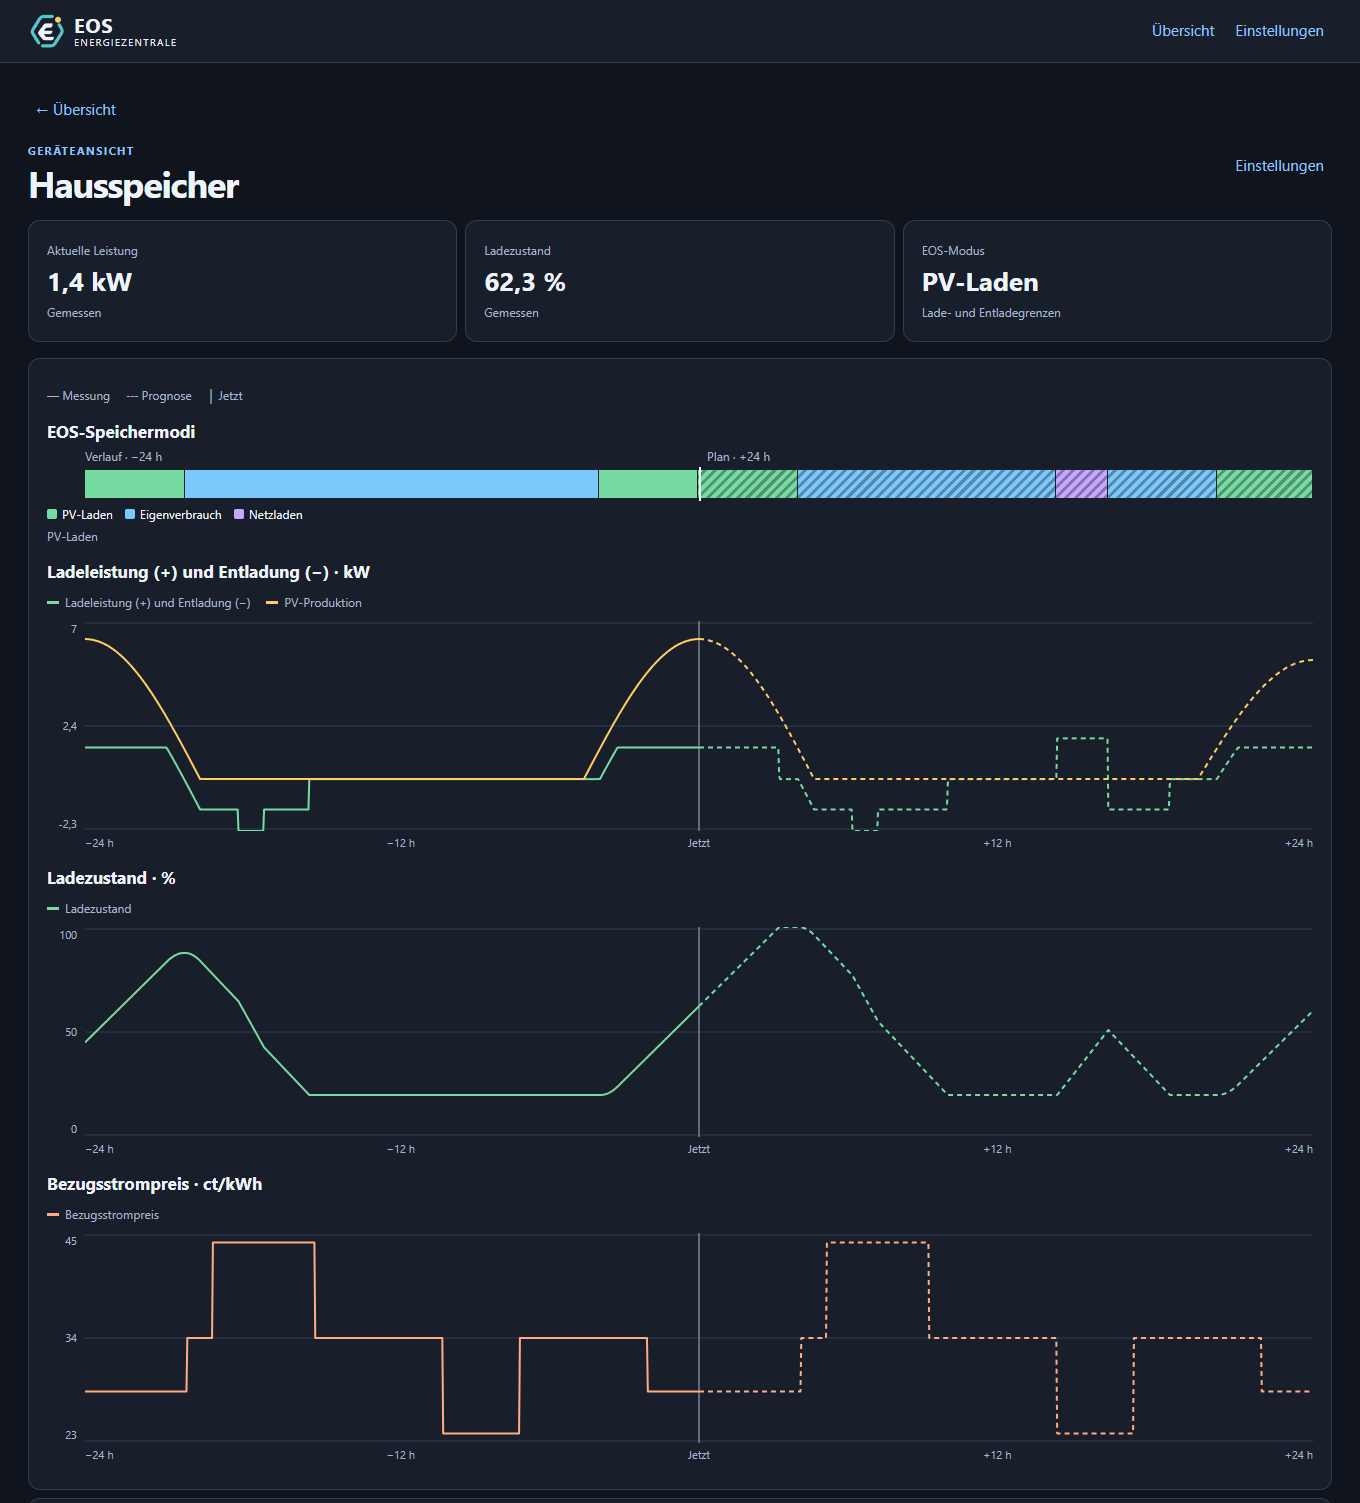
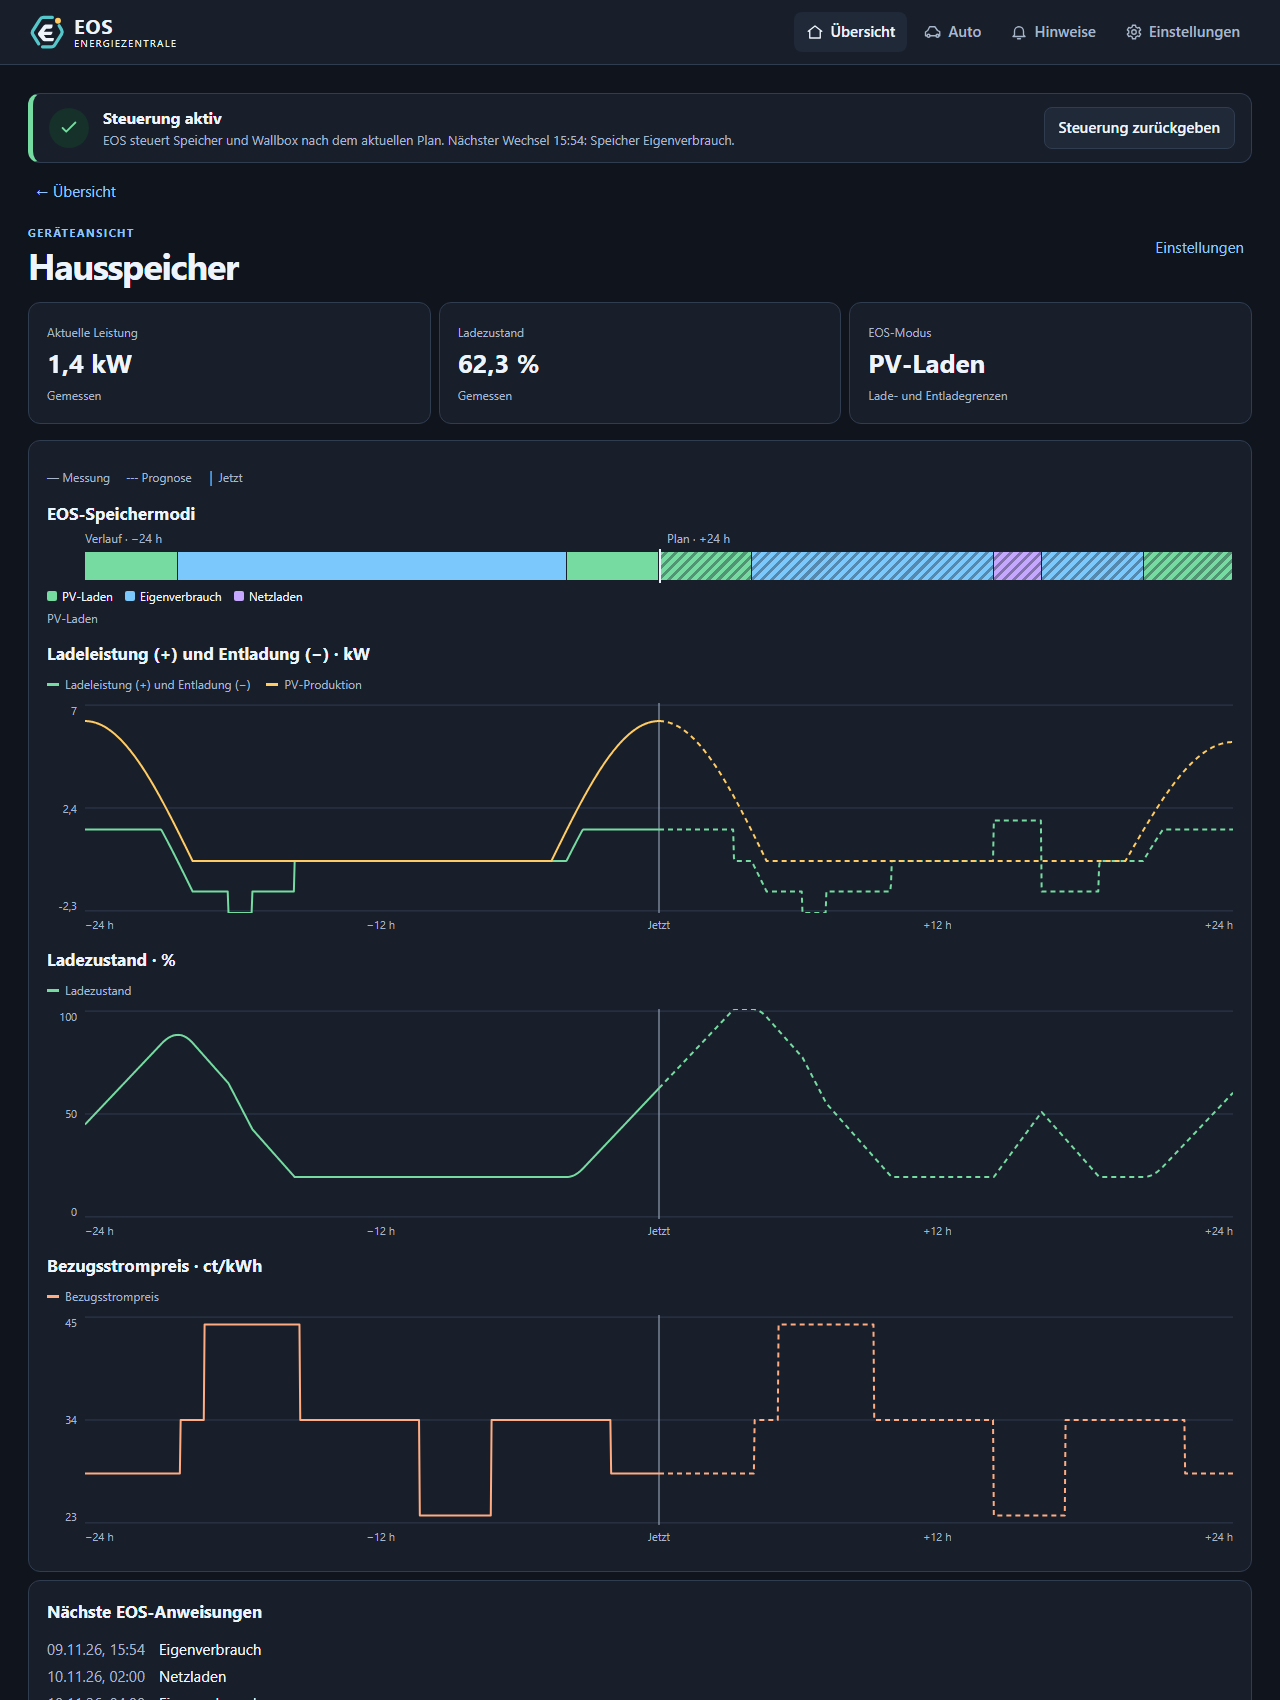
Refresh documentation screenshots and clean up after the redesign (stage 8)
Screenshots are taken from tools/demo-data.cjs presented through the
backend view functions. Short charge segments between two of the same
kind merge without changing the PV/grid energy totals, and CSS for
removed UI parts is dropped.

diff --git a/custom_components/eos_energiezentrale/energy/web/style.css b/custom_components/eos_energiezentrale/energy/web/style.css
@@ -112,7 +112,6 @@
   #eos-energy-design #timeline:not(:empty) { margin:14px 0; }
   #eos-energy-design #charts section + section { margin-top:14px; }
   #eos-energy-design #notice:not(:empty) { color:var(--heat); margin-bottom:12px; }
-  #eos-energy-design #notice.information:not(:empty) { color:var(--accent); }
   #eos-energy-design #control { background:var(--surface2); border:1px solid var(--edge); border-radius:8px; padding:8px 12px; margin:8px 8px 0 0; }
   #eos-energy-design #daily { margin-top:12px; }
 
@@ -163,19 +162,14 @@
 #eos-energy-design .balance-card small {color:var(--dim);}
 #eos-energy-design .source-bar {height:9px;display:flex;border-radius:6px;overflow:hidden;background:var(--edge);}
 #eos-energy-design .source-bar.empty {opacity:.35;}
-#eos-energy-design .billing-toolbar {display:flex;gap:8px;align-items:end;flex-wrap:wrap;margin-bottom:16px;}
-#eos-energy-design .billing-toolbar label {display:grid;gap:5px;}
-#eos-energy-design .billing-toolbar button,#eos-energy-design .billing-toolbar input,#eos-energy-design .billing-toolbar select {min-height:44px;background:var(--surface2);color:var(--ink);border:1px solid var(--edge);border-radius:8px;padding:8px;box-sizing:border-box;font:inherit;}
-#eos-energy-design .billing-toolbar button {min-width:44px;cursor:pointer;}
 #eos-energy-design .billing-chart {width:100%;height:auto;min-height:180px;overflow:visible;}
 #eos-energy-design .billing-chart text {fill:var(--dim);font-size:12px;}
 #eos-energy-design .billing-chart g:focus {outline:2px solid var(--accent);}
-#eos-energy-design .table-scroll {overflow-x:auto;}
 #eos-energy-design #usage table {width:100%;border-collapse:collapse;}
 #eos-energy-design #usage th,#eos-energy-design #usage td {text-align:right;padding:12px 8px;border-bottom:1px solid var(--edge);white-space:nowrap;}
 #eos-energy-design #usage th:first-child,#eos-energy-design #usage td:first-child {text-align:left;}
 #eos-energy-design .source-dot {display:inline-block;width:10px;height:10px;border-radius:3px;margin-right:8px;}
-#eos-energy-design #usage summary,#eos-energy-design #cost-settings-open summary {cursor:pointer;padding:8px 0;min-height:36px;}
+#eos-energy-design #usage summary {cursor:pointer;padding:8px 0;min-height:36px;}
 #eos-energy-design #usage-charts {display:grid;gap:16px;margin:16px 0;}
 #eos-energy-design .billing-links {display:flex;gap:12px;flex-wrap:wrap;}
 #eos-energy-design .billing-links a {color:var(--accent);padding:12px;}
@@ -232,7 +226,6 @@
 #eos-energy-design .charge-goal {margin:0;padding:18px;border:1px solid var(--edge);border-radius:14px;min-width:0;}
 #eos-energy-design .goal-header {display:flex;align-items:center;justify-content:space-between;gap:16px;margin-bottom:16px;}
 #eos-energy-design .delete-goal {color:var(--heat);background:transparent;}
-#eos-energy-design #vehicle-settings {margin-top:24px;}
 #eos-energy-design #vehicle-daily>.checks {margin:20px 0;}
 
 /* App shell: status band on every page, one card per notice, bottom navigation on phones. */

diff --git a/custom_components/eos_energiezentrale/energy/web/app.js b/custom_components/eos_energiezentrale/energy/web/app.js
@@ -941,7 +941,7 @@ function carPlanPanel(plan) {
     <div class="plan-axis" aria-hidden="true"><span style="left:0">${th('chart.now')}</span>${ticks.map(stamp=>`<span style="left:${at(stamp)}">${html(clock(stamp))}</span>`).join('')}<span style="left:100%">${html(when(end))}</span></div>
     <div class="mode-legend">${legend}</div>
     <p class="mode-detail" id="car-plan-detail" aria-live="polite">${th('car.track_hint')}</p>
-    <div class="list">${segments.filter(segment=>segment.kind!=='pause'||Date.parse(segment.end)-Date.parse(segment.start)>=1_800_000).map(segment=>segmentRow(segment,plan)).join('')}</div>
+    <div class="list">${segments.filter(segment=>Date.parse(segment.end)-Date.parse(segment.start)>=(segment.kind==='pause' ? 1_800_000 : 600_000)||segment.kwh>=.5).map(segment=>segmentRow(segment,plan)).join('')}</div>
     ${chargeCompare(plan)}` : `<p class="footnote">${th(plan.state==='disconnected' ? 'car.summary_disconnected' : 'car.no_plan')}</p>`;
   return `<div class="panel-heading"><h2>${html(title)}</h2>${tag ? `<span class="tag">${html(tag)}</span>` : ''}</div>
     ${chargeAlert(plan)}${socPlot(plan,start,span)}${body}`;

diff --git a/custom_components/eos_energiezentrale/energy/charge_view.py b/custom_components/eos_energiezentrale/energy/charge_view.py
@@ -15,6 +15,8 @@ GRID_SHARE = .5
 SOC_TOLERANCE = .5
 # Without a departure the plan covers this horizon.
 HORIZON_H = 24
+# A segment shorter than this between two segments of the same kind is forecast noise and joins them.
+MIN_SEGMENT_S = 600
 # Errors that keep the wallbox from following the plan.
 WALLBOX_ERRORS = frozenset({'wallbox', 'wallbox_stop', 'vehicle_limits'})
 
@@ -39,6 +41,24 @@ def _phases(power, limits):
     if not current or power is None:
         return None
     return 1 if power <= current * 230 * 1.05 else 3
+
+
+def _absorb_short(segments):
+    """Merge a short segment sandwiched between two of the same kind; energy and cost totals stay exact."""
+    merged = list(segments)
+    index = 1
+    while index < len(merged) - 1:
+        before, item, after = merged[index - 1], merged[index], merged[index + 1]
+        if before['kind'] == after['kind'] and (item['end'] - item['start']).total_seconds() < MIN_SEGMENT_S:
+            for part in (item, after):
+                for key in ('kwh', 'grid_kwh', 'pv_kwh', 'cost_eur', 'energy_h', 'price_sum', 'price_h'):
+                    before[key] += part[key]
+                before['priced'] = before['priced'] and part['priced']
+            before['end'], before['soc_end'] = after['end'], after['soc_end']
+            del merged[index:index + 2]
+            continue
+        index += 1
+    return merged
 
 
 def _state(data, connected, soc, target, has_plan):
@@ -164,6 +184,7 @@ def charge_plan(data, now, pv_price_ct=None):
             segment['price_h'] += hours
         segment['soc_end'] = level if row_soc is None or capacity is None else min(
             100., row_soc + kwh * efficiency * 100000 / capacity)
+    segments = _absorb_short(segments)
     for segment in segments:
         segment['power_w'] = segment['kwh'] * 1000 / segment['energy_h'] if segment['energy_h'] else 0.
         segment['phases'] = _phases(segment['power_w'], limits) if segment['kwh'] else None

diff --git a/tests/test_charge_view.py b/tests/test_charge_view.py
@@ -94,3 +94,14 @@ def test_charge_plan_without_departure_covers_24_hours():
     plan = charge_plan(data(plan_rows(), charge_departure=None), NOW, 8.)
     assert plan['end'] == (NOW + timedelta(hours=24)).isoformat() and plan['buffer_s'] is None
     assert plan['segments'][-1]['kind'] == 'ready'
+
+
+def test_short_segment_between_two_pauses_joins_them_without_losing_energy():
+    rows = [row(0, 3700, 40, solar=5000), row(1, 0, 47.4), row(2, 3700, 47.4, solar=5000, length=1 / 30),
+            row(2 + 1 / 30, 0, 47.6, length=2 - 1 / 30), row(4, 7400, 47.6, grid=7900, price=24, length=2.5)]
+    plan = charge_plan(data(rows), NOW, pv_price_ct=8.)
+    assert [item['kind'] for item in plan['segments']] == ['pv', 'pause', 'grid']
+    pause = plan['segments'][1]
+    assert pause['start'] == (NOW + timedelta(hours=1)).isoformat() and pause['end'] == (NOW + timedelta(hours=4)).isoformat()
+    assert pause['pv_kwh'] == pytest.approx(3.7 / 30)
+    assert plan['pv_kwh'] == pytest.approx(3.7 + 3.7 / 30) and plan['pv_until'] == (NOW + timedelta(hours=1)).isoformat()

diff --git a/CHANGELOG.md b/CHANGELOG.md
@@ -12,7 +12,7 @@ veröffentlichte Abschnitte werden in den Release-Tags archiviert.
 - Panel-Redesign, Teil 3: Die Einstellungen sind in die Bereiche Speicher, E-Auto, Kalender, Kosten und System gegliedert; Expertenwerte sowie Wirkungsgrade und Anfangspreis sind eingeklappt. Statt drei getrennter Speichern-Knöpfe erscheint nur bei ungespeicherten Änderungen eine Leiste mit Änderungszahl, „Verwerfen“ und „Speichern“, die alle Bereiche gemeinsam speichert. Abgelehnte Werte werden direkt am Feld markiert: Das Backend liefert dafür Grund und Feldnamen aus festen Listen (`translation_placeholders` der HA-Fehlermeldung, ohne eingegebene Werte); auch die Kosteneinstellungen melden ihre Fehler jetzt so. Ohne lokale Änderungen übernimmt das Formular Änderungen aus dem Backend, etwa über native Entitäten.
 - Panel-Redesign, Teil 4: Die Verbrauchsbilanz schreibt Einspeisung (bewertet mit der EOS-Einspeisevergütung bzw. dem manuellen PV-Kostenansatz) und Speicherladung (nach PV und Netz) stündlich mit. Der Bericht enthält eine im Backend berechnete Bilanz (`balance`) mit Verbrauch, Autarkie, Eigenverbrauchsquote, physischem Netzbezug, Ø-Netzstrompreis, Einspeisung und Vergütung, anteiligem Grundpreis, Ersparnis und Netto; netzgeladene Speicherenergie wird nicht doppelt gezählt. Neu unter Einstellungen › Kosten ist ein Grundpreis gesamt in €/Monat (Standard 0), der tageweise verteilt wird. Einspeisung wird ab diesem Update erfasst.
 - Panel-Redesign, Teil 5: Die Auswertungen sind neu aufgebaut. Chips wechseln zwischen Haus, Auto, Wärmepumpe, Netz & Einspeisung und Gesamt; Tag/Monat/Jahr mit ‹ › zum Blättern. Jede Auswertung zeigt eine Kernaussage, vier Kennzahlen, den Verlauf, Preise & Kosten, Herkunft bzw. „Wohin ging der PV-Strom?“ und „Was auffällt“; Kennzahlen, Ersparnis und auffällige Zeitabschnitte berechnet das Backend. Neu ist die Auswertung Netz & Einspeisung mit Bezug nach oben und Einspeisung nach unten, Grundpreis und Saldo; der Netz-Knoten im Energiefluss öffnet sie. Die Heute-Kacheln enthalten Einspeisung und Gesamtbilanz mit Netto. Das separate Kostendiagramm und die Datumswahl entfallen. Auf dem Smartphone sind die unteren Bereiche eingeklappt.
-- Panel-Redesign, Teil 6: Die Auto-Ansicht zeigt zuerst das Ziel (Ladestand-Ring, Abfahrt, fehlende Energie und was EOS plant). PV-Überschussladen, Schnellladen, Phasenautomatik und die Ladegrenzen speichern sofort. Neu ist der EOS-Ladeplan bis zur Abfahrt mit Ladestandskurve, Zeitstrahl (PV-Überschuss, Pause, Netzladen, Ziel erreicht), Abschnittsliste mit Leistung, Phasen, kWh, Preis und Kosten sowie einem Kostenvergleich mit sofortigem Laden. Das Backend berechnet die Abschnitte aus der EOS-Prognose (Netzstrom zum Intervallpreis, PV-Strom zur Einspeisevergütung) und den Zustand „überstimmt“ (Schnellladen), „ausgesetzt“ (Wallbox-Fehler), „nur Anzeige“ (Lesemodus) oder „nicht verbunden“. Ladeziele erscheinen als kompakte Zeilen; Bearbeiten öffnet die Details.
+- Panel-Redesign, Teil 6: Die Auto-Ansicht zeigt zuerst das Ziel (Ladestand-Ring, Abfahrt, fehlende Energie und was EOS plant). PV-Überschussladen, Schnellladen, Phasenautomatik und die Ladegrenzen speichern sofort. Neu ist der EOS-Ladeplan bis zur Abfahrt mit Ladestandskurve, Zeitstrahl (PV-Überschuss, Pause, Netzladen, Ziel erreicht), Abschnittsliste mit Leistung, Phasen, kWh, Preis und Kosten sowie einem Kostenvergleich mit sofortigem Laden. Das Backend berechnet die Abschnitte aus der EOS-Prognose (Netzstrom zum Intervallpreis, PV-Strom zur Einspeisevergütung) und den Zustand „überstimmt“ (Schnellladen), „ausgesetzt“ (Wallbox-Fehler), „nur Anzeige“ (Lesemodus) oder „nicht verbunden“. Abschnitte unter 10 Minuten zwischen zwei gleichartigen Abschnitten werden mit diesen zusammengefasst, ohne die kWh-Summen nach PV und Netz zu ändern. Ladeziele erscheinen als kompakte Zeilen; Bearbeiten öffnet die Details.
 - Panel-Redesign, Teil 7: Die neue Ansicht PV & Wetter ersetzt den Wetter-Dialog und öffnet sich über den PV-Knoten oder das Wettersymbol. Sie zeigt PV jetzt, heute erzeugt, Rest und morgen, das aktuelle Wetter mit Bewölkung und „PV jetzt ≈ x % der Prognose“, eine stündliche Leiste bis Ende morgen mit Wetter über dem erwarteten PV-Ertrag (Nachtstunden zusammengefasst) und Tageskarten für drei Tage ohne Spanne. „Was EOS daraus macht“ nennt weniger/mehr Sonne morgen, Speicher voll per PV, Netzladen des Speichers, Einspeisung und Fahrzeug-Netzladen; das Backend berechnet Stunden, Tage und diese Aussagen. Die Wetterabfrage liefert dafür die Bewölkung und reicht 72 statt 24 Stunden voraus. Die nicht mehr genutzte 24-Stunden-PV-Zusammenfassung des Dialogs entfällt.
 
 ### Bugfixes

diff --git a/README.md b/README.md
@@ -40,7 +40,7 @@ Stunde tut (lädt mit PV-Überschuss, lädt aus dem Netz, deckt das Haus, hält 
 Ladestand); der EOS-Modus steht klein darunter. Folgen zwei Wechsel mit derselben
 Wirkung aufeinander, erscheint nur der erste. Darunter stehen Tagesverbrauch und Kosten nach Verbrauchern.
 
-![Desktop-Übersicht mit Energiefluss, Wetter, Ladezuständen und Tagesverbrauch samt Kosten](docs/screenshots/overview.png)
+![Desktop-Übersicht mit Statusband, Energiefluss, EOS-Plan, nächsten Ereignissen und Heute-Kacheln](docs/screenshots/overview.png)
 
 ### Hausspeicher: Verlauf und EOS-Plan
 
@@ -87,17 +87,28 @@ Eine dauerhaft mit 0 % belegte EOS-Kurve wird bei bekanntem positivem
 Fahrzeug-SoC als unplausibler Platzhalter behandelt. Der Ersatzverlauf beginnt
 dann beim aktuellen SoC und berücksichtigt verfügbare PV-Überschussprognosen.
 
-![E-Auto-Detailansicht mit Ladeziel, Moduszeitleiste, Wallbox-Leistung, SoC und Strompreis](docs/screenshots/vehicle.png)
+![E-Auto-Ansicht mit Ladeziel, Schaltern, EOS-Ladeplan samt Kostenvergleich und kompakten Ladezielen](docs/screenshots/vehicle.png)
 
 </details>
 
 <details>
-<summary><strong>Photovoltaik: Ertrag und Tagesprognosen</strong></summary>
+<summary><strong>PV & Wetter: Prognose und was EOS daraus macht</strong></summary>
 
-Aktuelle PV-Leistung, heutiger Ertrag und Prognosen für heute, morgen und
-übermorgen stehen über dem gemeinsamen Verlauf aus Messung und Prognose.
+Aktuelle PV-Leistung und Wetter, stündliche Leiste mit Wetter über dem erwarteten
+PV-Ertrag, Tageskarten für drei Tage und die Folgen für Speicher, Einspeisung und
+Auto. Der bisherige Leistungsverlauf ist über **Verlauf & Diagramme** erreichbar.
 
-![PV-Detailansicht mit Tagesertrag, Prognosen für drei Tage und Leistungsverlauf](docs/screenshots/solar.png)
+![PV & Wetter mit stündlicher Prognose, Tageskarten und „Was EOS daraus macht“](docs/screenshots/pv.png)
+
+</details>
+
+<details>
+<summary><strong>Auswertung: Verbrauch, Herkunft und Kosten</strong></summary>
+
+Jede Auswertung hat Tag/Monat/Jahr, eine Kernaussage, vier Kennzahlen, den Verlauf
+nach Herkunft, Preise & Kosten, „Woher kam der Strom?“ und „Was auffällt“.
+
+![Auswertung Hausverbrauch für einen Tag mit Kennzahlen, Verlauf nach Herkunft, Preisen und Auffälligkeiten](docs/screenshots/usage.png)
 
 </details>
 
@@ -107,7 +118,7 @@ Aktuelle PV-Leistung, heutiger Ertrag und Prognosen für heute, morgen und
 Die Oberfläche passt sich schmalen Bildschirmen an. Hier der obere Bereich der
 Übersicht; Tagesbilanz und weitere Informationen folgen darunter beim Scrollen.
 
-<img src="docs/screenshots/mobile.png" width="390" alt="Mobile Übersicht mit aktuellen Energiewerten, Wettersymbol und Energieflussdiagramm">
+<img src="docs/screenshots/mobile.png" width="390" alt="Mobile Übersicht mit Statusband, Kennzahlen, Energiefluss und EOS-Plan">
 
 </details>
 

diff --git a/docs/screenshots/README.md b/docs/screenshots/README.md
@@ -3,13 +3,20 @@
 Echte Browseraufnahmen des integrierten Panels, erstellt mit synthetischen
 Beispieldaten und deutschem Sprachpaket. Es werden keine privaten Messwerte,
 Serveradressen oder Zugangsdaten gezeigt. Die Screenshots bilden den Stand der
-Oberfläche vom 9. November 2026 ab und sind keine Entwurfsgrafiken.
+Oberfläche nach dem Redesign (Stand 18. November 2026) und sind keine Entwurfsgrafiken.
 
-- `overview.png`: Desktop-Übersicht einschließlich Tagesverbrauch und Kosten.
+- `overview.png`: Desktop-Übersicht mit Statusband, Energiefluss, EOS-Plan, nächsten
+  Ereignissen und Heute-Kacheln.
 - `battery.png`: Speicherverlauf, EOS-Modi und Prognosen.
-- `vehicle.png`: Fahrzeugplanung und Ladeverlauf.
-- `solar.png`: PV-Ertrag und Prognosen für drei Tage.
+- `vehicle.png`: Auto-Ansicht mit Ladeziel, Schaltern, EOS-Ladeplan und Ladezielen.
+- `pv.png`: PV & Wetter mit stündlicher Prognose, Tageskarten und Planfolgen.
+- `usage.png`: Tagesauswertung Hausverbrauch.
 - `mobile.png`: oberer Bereich der Übersicht bei 390 Pixeln Breite.
+
+Abgeleitete Anzeigewerte (Statusband, Zeitstrahl, nächste Ereignisse, Ladeplan,
+PV-Stunden und -Tage, „Was EOS daraus macht“ und der Tagesbericht) entstehen aus
+denselben Beispieldaten über die Backend-Funktionen der Integration. Das stündliche
+Wetter ist ein zur Sonneneinstrahlung des Modells passendes Beispiel.
 
 Bei Änderungen am Layout oder an sichtbaren Funktionen die betroffenen Aufnahmen
 aktualisieren. Weiterhin ausschließlich Beispieldaten verwenden und die deutsche
